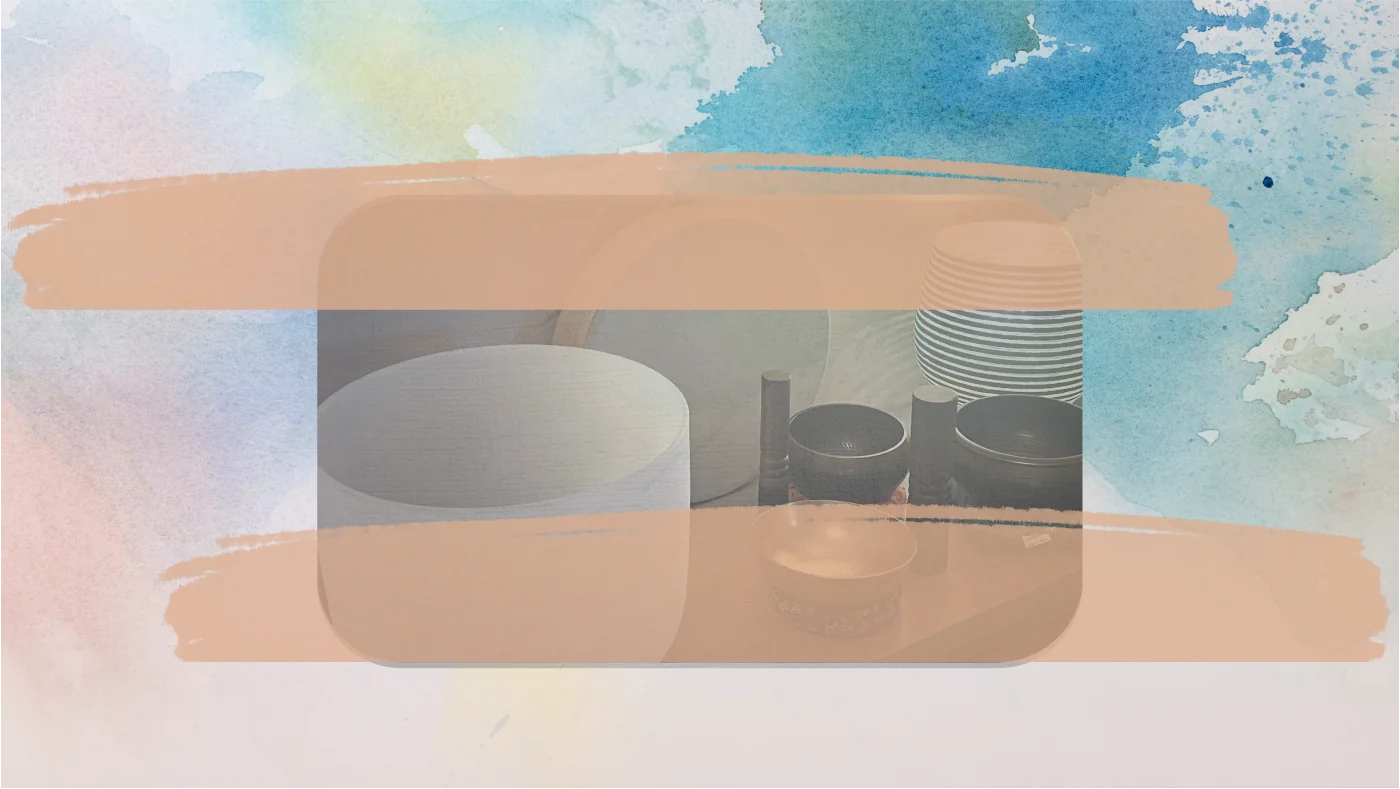
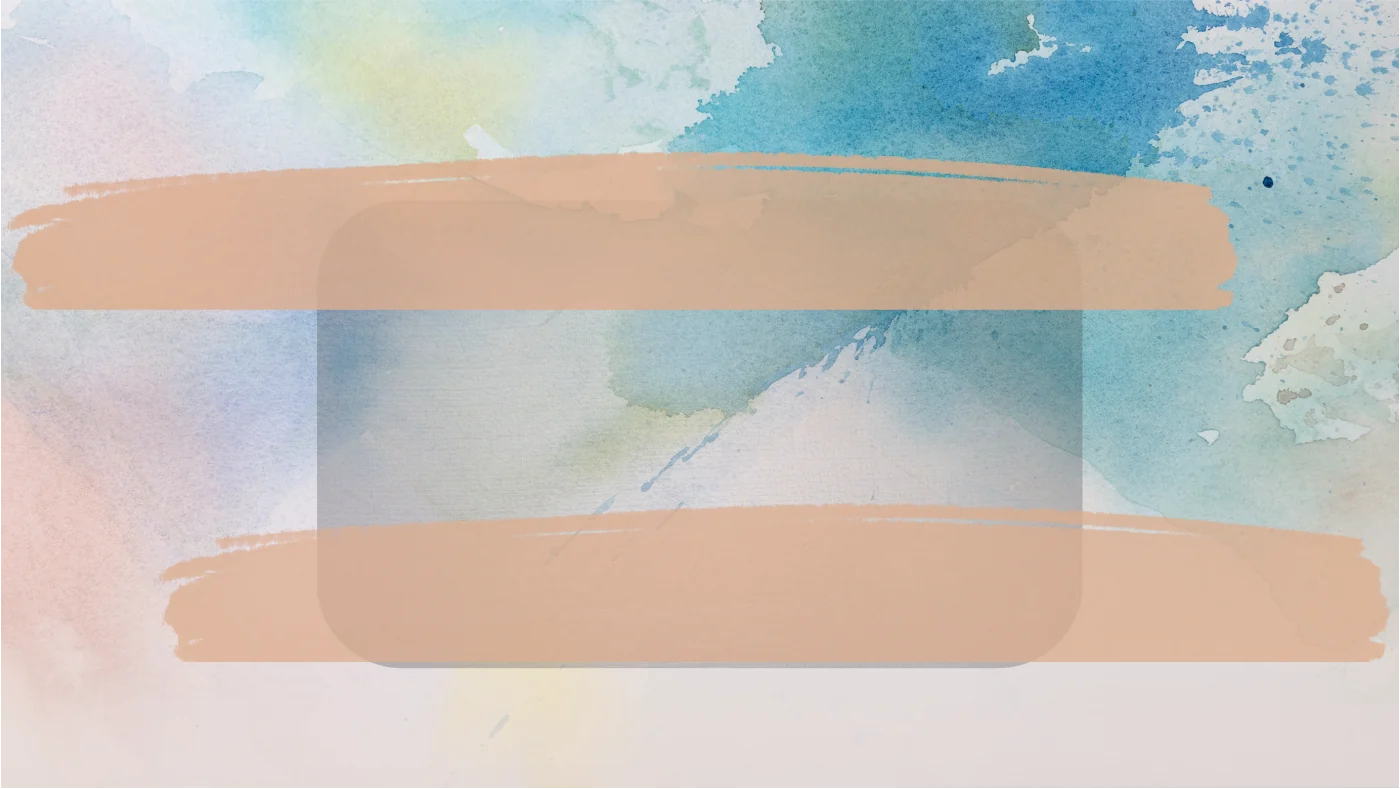
feat(splash): uncropped photo, bowls offset to the lower right
- The photo is no longer cropped. `cover` was cutting the frame even biased
  upward, so the over-photo mode uses `contain` and lets the seasonal band show
  at the sides rather than losing any of the shot.
- The overlay is now sized in vh, not %. Because the photo is uncropped its
  rendered width follows the BAND HEIGHT, not the page width, so a
  percentage-width overlay overhung the photo on short viewports and buried it
  completely. Tracking vh keeps the artwork just inside the photograph at any
  window size.
- The singing bowls are lifted out of the wash bitmap into their own layer and
  offset into the lower-right corner instead of sitting dead centre over the
  lettering. Removing them from the art bitmap uses the same trick as the
  flower, so the placement is now a CSS decision rather than baked in.

Also files board item #2: /admin gives drag-and-drop upload and drag-to-reorder,
but there is no drag-positioning of artwork layers and "Tagline Blend %" is a
number box rather than a slider. Both are buildable — offsets can ride CSS
custom properties the way imageWidth already does, and a slider is a custom
field component like the existing PreviewLinkField.

Changed region(s): [[0.215, 0.365, 0.7986, 0.8517], [0.645, 0.2433, 0.6757, 0.2738], [0.215, 0.73, 0.2457, 0.7605]]

diff --git a/src/styles/layout.css b/src/styles/layout.css
@@ -165,10 +165,23 @@
 }
 
 .tagline__wash,
+.tagline__bowls,
 .tagline__flower,
 .tagline__ink {
   position: absolute;
   inset: 0;
+}
+
+/* The bowl photo, offset into the lower-right corner rather than centred over
+   the lettering. Kept out of the wash bitmap so this stays a CSS decision. */
+.tagline__bowls {
+  inset: auto 2% 3% auto;
+  width: 29%;
+  height: auto;
+  max-height: 44%;
+  object-fit: cover;
+  border-radius: var(--radius-2);
+  box-shadow: var(--shadow-2);
 }
 
 .tagline__wash {
@@ -208,15 +221,17 @@
    --tagline-blend, set per block by the Tina "Tagline Blend %" field. */
 
 .splash--over {
-  min-height: clamp(420px, 68vh, 780px);
+  min-height: clamp(460px, 80vh, 880px);
   place-items: center;
   padding-block: clamp(1.5rem, 4vw, 3.5rem);
 }
 
-/* Keep her head and hands in frame: bias the crop above centre rather than
-   letting `cover` cut the top off. */
+/* Show the whole photograph. `cover` cropped it — even biased upward it cut the
+   frame — so this mode uses `contain` and lets the seasonal band show at the
+   sides rather than losing any of the shot. */
 .splash--over .splash__media img {
-  object-position: center 30%;
+  object-fit: contain;
+  object-position: center;
 }
 
 /* Do NOT add an edge-feather mask here. Two attempts failed for different
@@ -226,10 +241,15 @@
    (blue top-right, peach brushstrokes at the edges), which is exactly what a
    centre-weighted mask fades away, leaving only the lettering. The painted
    washes already fall off at their own edges, which is the blend. */
+/* Sized in vh, not %, on purpose. The photo is shown uncropped (`contain`), so
+   its rendered width is driven by the BAND HEIGHT (width = height x its aspect),
+   not by the page width. A percentage-width overlay therefore overhangs the
+   photo on any short viewport and buries it. Tracking vh keeps the artwork
+   just inside the photograph at any window size. */
 .splash--over .splash__overlay {
   position: relative;
   z-index: 2;
-  width: min(100%, 1100px);
+  width: min(88vw, 84vh);
   opacity: var(--tagline-blend, 0.9);
 }
 

diff --git a/src/components/TaglineArt.jsx b/src/components/TaglineArt.jsx
@@ -20,6 +20,7 @@
 // "lasting healing" artwork. Don't change it back.
 import artUrl from '../assets/tagline-art.webp'
 import flowerUrl from '../assets/tagline-flower.webp'
+import bowlsUrl from '../assets/tagline-bowls.webp'
 import taglineText from '../assets/tagline-text.svg?raw'
 
 export const TAGLINE_COPY =
@@ -33,6 +34,10 @@ export default function TaglineArt() {
           wrapper carries opacity<1 — the late decode did not always trigger a
           repaint, so the hero rendered as a bare photo with no artwork. */}
       <img className="tagline__wash" src={artUrl} alt="" decoding="sync" fetchPriority="high" />
+      {/* The singing-bowl photo is a separate layer rather than being baked into
+          the wash, so it can be placed independently — currently offset to the
+          lower right instead of sitting dead centre over the lettering. */}
+      <img className="tagline__bowls" src={bowlsUrl} alt="" decoding="sync" />
       <img className="tagline__flower" src={flowerUrl} alt="" decoding="sync" />
       <div className="tagline__ink" dangerouslySetInnerHTML={{ __html: taglineText }} />
       <p className="visually-hidden">{TAGLINE_COPY}</p>

diff --git a/.boards/items/2.md b/.boards/items/2.md
@@ -1,0 +1,44 @@
+---
+id: 2
+type: Issue
+title: Admin can't drag-position artwork layers or drag an opacity slider
+state: New
+tags: needs-triage
+parent:
+created: 2026-07-22
+modified: 2026-07-22
+---
+The owner asked whether `/admin` supports drag-and-drop for photos and opacity while iterating on the
+home splash. Partly — see below. Filing the gaps so the composition doesn't stay code-only.
+
+**What TinaCMS already gives us**
+- **Drag-and-drop upload.** The `image` field opens the media manager, which accepts files dropped
+  onto it. So replacing a photo is already a drag-and-drop job, no code.
+- **Drag-to-reorder.** `blocks[]` list items can be dragged to reorder on the page, which is what
+  re-alternates `imageSide: auto`.
+
+**What it does NOT give us (the actual asks)**
+1. **Drag-positioning an element on the page.** There is no canvas-style "drag the bowls where you
+   want them". The bowls/flower offsets are CSS (`.tagline__bowls`, `.tagline__flower` in
+   `layout.css`), so moving them is a code change today. Options, cheapest first:
+   - expose X/Y/size as Tina number fields on the splash block and feed them to CSS custom
+     properties (same trick `imageWidth` → `--media-basis` already uses);
+   - a custom Tina field component with a small drag-pad that writes those numbers.
+2. **An opacity slider.** "Tagline Blend %" is `type: 'number'`, so it renders as a plain number box —
+   you type 88, you don't drag it. Tina supports custom field components and this repo already ships
+   one (`PreviewLinkField` in `tina/config.ts`), so a range-input slider with a live preview is a
+   small, self-contained job.
+
+**Why it matters:** every visual tweak in this area currently costs a round-trip through code. The
+owner is actively iterating on the hero, which is exactly the workflow that should be owner-editable
+per the project's "content, not code, drives the look" convention (DESIGN.md §7).
+
+**Where things live**
+- Fields: `tina/config.ts` (`taglinePlacement`, `taglineBlend` on the `contentSection` template).
+- Layers + offsets: `src/styles/layout.css` (`.tagline*`, `.splash--over`).
+- Component: `src/components/TaglineArt.jsx`.
+- Precedent for a custom field component: `PreviewLinkField`, `tina/config.ts`.
+
+## Discussion
+
+- 2026-07-22 — Raised by the owner mid-iteration on the "tagline over the photo" hero.